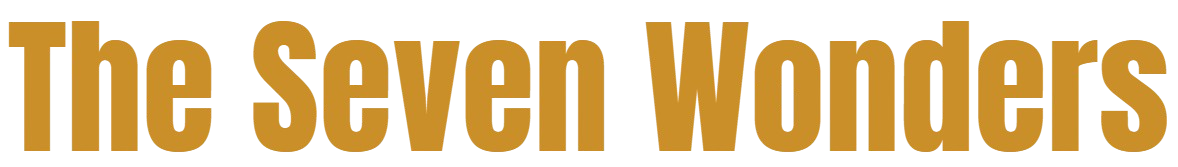
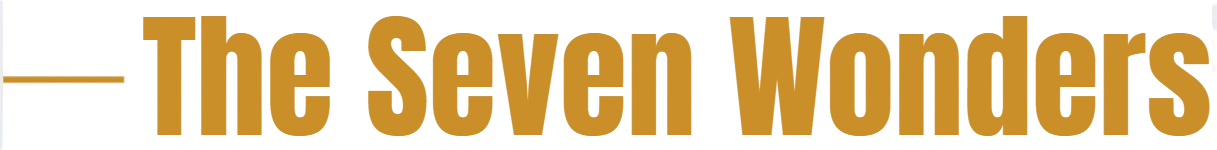
commit

diff --git a/style.css b/style.css
@@ -71,43 +71,25 @@ h1 {
 
 .Front {
   position: relative;
+  width: 100%;
+  display: block;
 }
 
 .Title {
   position: absolute;
-  top: 30%;
-  left: 10%;
-  width: 200px;
-  height: auto;
-}
-.container {
-  display: grid;
-  grid-template-columns: auto auto auto;
-  background-color: white;
-  padding: 5px;
-  gap: 60px;  
+  top: 15%;
+  left: 5%;
+  width: 250px;
   height: auto;
 }
 
-.container div {
-  background-color: #f1f1f1;
-  color: #000;
-  font-size: 20px;
-  text-align: center;
-}
-
-.container2 {
-  display: flex;
-  flex-direction: column;
-  background-color: white;
-}
-
-.container2 div {
-  background-color: #f1f1f1;
-  margin: 10px;
-  padding: 10px;
-  text-align: center;  
-  font-size: 30px;
+.Title1 {
+  position: absolute;
+  top: 18%;
+  left: 7%;
+  color: white;
+  font-size: 15px;
+  font-family: "Playfair Display", serif;
 }
 
 .img {

diff --git a/index.html b/index.html
@@ -3,6 +3,7 @@
 <head>
 <link rel="stylesheet" href="https://fonts.google.com/specimen/BBH+Hegarty">
 <link rel="stylesheet" href="https://fonts.google.com/specimen/Lora">
+<link rel="stylesheet" href="https://fonts.googleapis.com/css2?family=Playfair+Display&display=swap">
 <link rel="stylesheet" href="style.css">
 <link rel="icon" type="image/png" href="Images/home.png">
 </head>
@@ -19,23 +20,12 @@
     </div>
       </nav>
 
-      <div class="Title">
+      <div class="Front">
       <img src="Images/SevenWonders.png" alt="Seven Wonders" class="FrontImage">
-      <img src="Images/SevenWonders.png" alt="Seven Wonders" class="FrontImage">
+      <img src="Images/Title.png" alt="Title" class="Title">
+      <p class="Title1">Discover the world's most iconic landmarks</p>
 </div>
-      
-      <div class="container">
-        <div>1</div>
-        <div>2</div>
-        <div>3</div>  
-        <div>4</div>
-        <div>5</div>
-        <div>6</div>  
-      </div>
-
-      <div class="container2">
-        <div>7</div>
-      </div>
+    
 
 </body>
 </html>